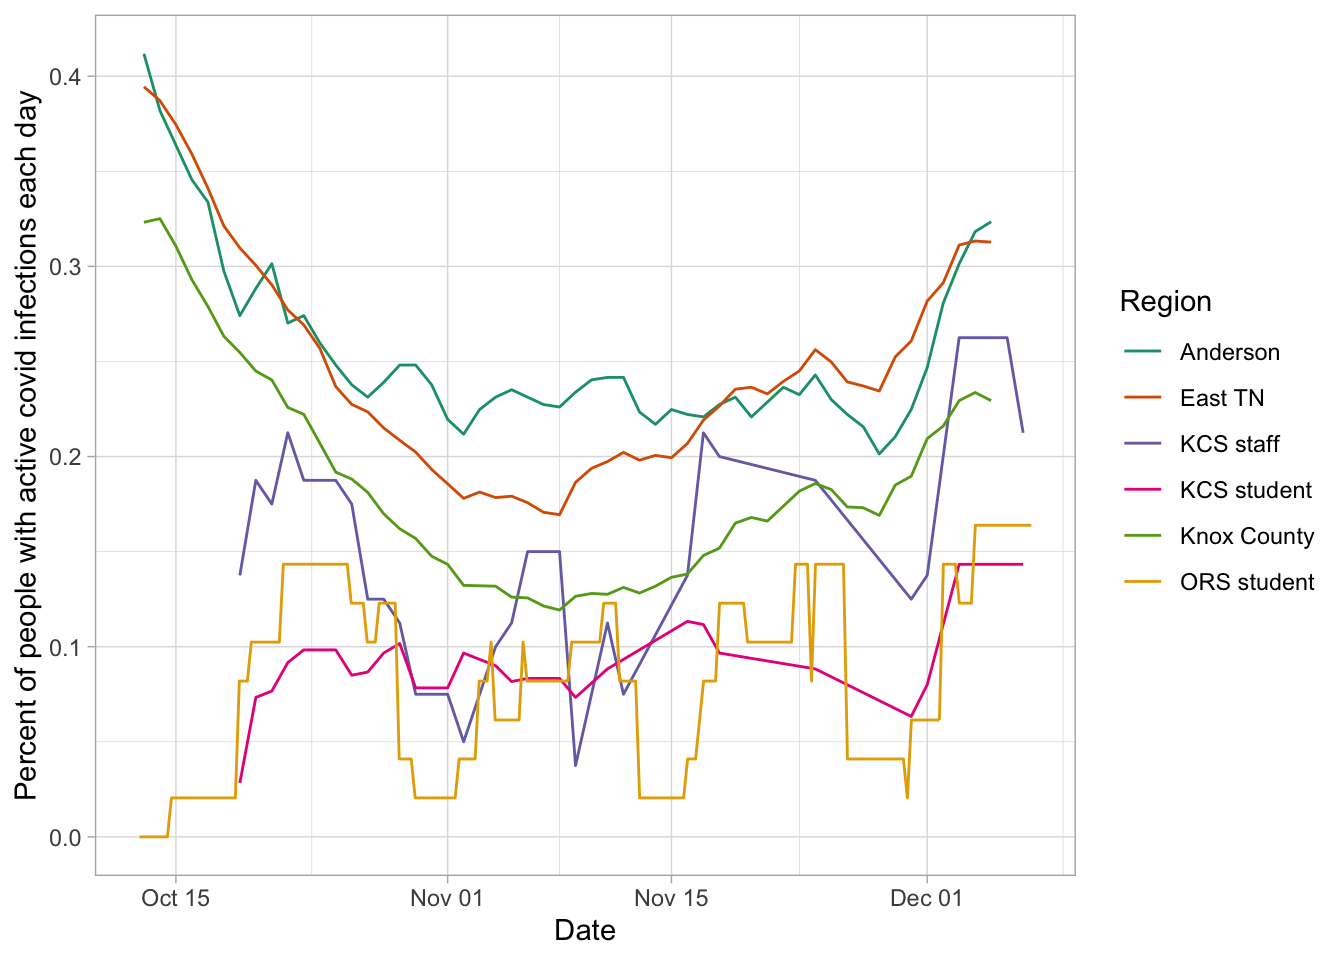
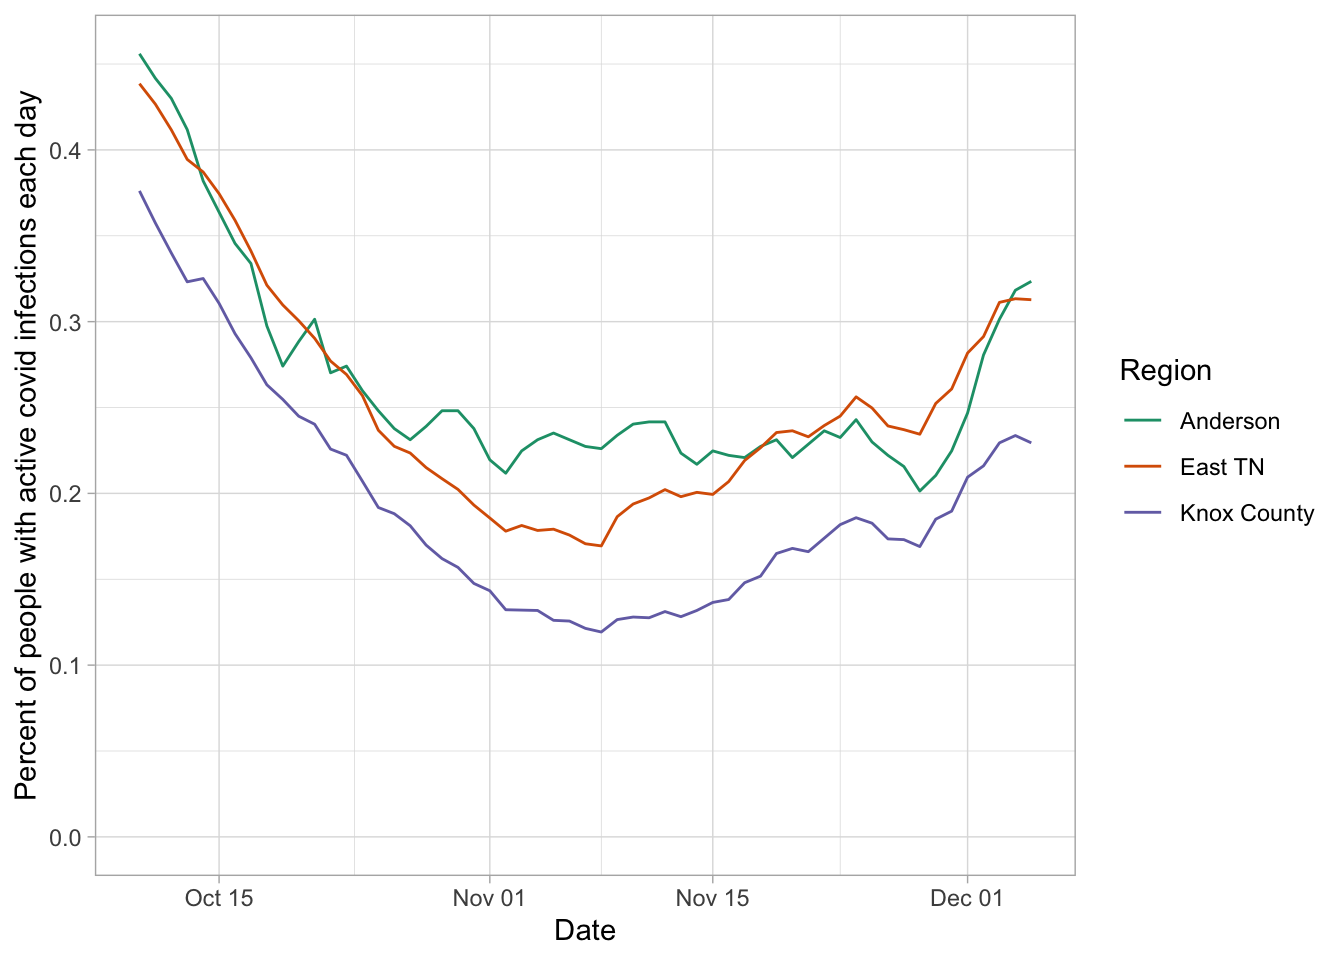
updated data

diff --git a/docs/lasteightweeks.html b/docs/lasteightweeks.html
@@ -350,9 +350,12 @@ $(document).ready(function () {
 </div>
 
 
+<p>`</p>
 <p>We can focus on just the last eight weeks, as some past peaks may obscure local dynamics otherwise.</p>
-<p>Total people in the area who have active covid infections right now <em>and</em> for whom this has been reported to the state. There is all East TN, all people in various counties, and people in Knox County Schools (KCS) and Oak Ridge Schools (ORS)</p>
+<p>Total people in the area who have active covid infections right now <em>and</em> for whom this has been reported to the state. There is all East TN as well as Knox and Anderson counties.</p>
 <p><img src="lasteightweeks_files/figure-html/percentageactive-1.png" title="Percentage of people in the region with active covid-19" alt="Percentage of people in the region with active covid-19" width="672" /></p>
+<p>We can also look at people in Knox County Schools (KCS) and Oak Ridge Schools (ORS)</p>
+<p><img src="lasteightweeks_files/figure-html/percentageactiveschools-1.png" title="Percentage of people in the region with active covid-19" alt="Percentage of people in the region with active covid-19" width="672" /></p>
 <p>We can also look at deaths per day, though this lags infections by weeks:</p>
 <p><img src="lasteightweeks_files/figure-html/numberdead-1.png" title="Covid deaths per day" alt="Covid deaths per day" width="672" /></p>
 <p>The <a href="https://covid.knoxcountytn.gov">Knox County Health Department</a> puts out information on hospital capacity in their region, which is Anderson, Bledsoe, Blount, Bradley, Campbell, Carter, Claiborne, Cocke, Cumberland, Grainger, Greene, Hamblen, Hamilton, Hancock, Hawkins, Jefferson, Johnson, Knox, Loudon, Marion, McMinn, Meigs, Monroe, Morgan, Polk, Rhea, Roane, Scott, Sevier, Sullivan, Unicoi, Union, Washington Counties; there are 19 hospitals in this region with potential ICU beds.</p>

diff --git a/docs/lastfourweeks.html b/docs/lastfourweeks.html
@@ -351,8 +351,10 @@ $(document).ready(function () {
 
 
 <p>We can focus on just the last four weeks, as some past peaks may obscure local dynamics otherwise.</p>
-<p>Total people in the area who have active covid infections right now <em>and</em> for whom this has been reported to the state. There is all East TN, all people in various counties, and people in Knox County Schools (KCS) and Oak Ridge Schools (ORS)</p>
+<p>Total people in the area who have active covid infections right now <em>and</em> for whom this has been reported to the state. There is all East TN as well as Knox and Anderson counties.</p>
 <p><img src="lastfourweeks_files/figure-html/percentageactive-1.png" title="Percentage of people in the region with active covid-19" alt="Percentage of people in the region with active covid-19" width="672" /></p>
+<p>We can also look at people in Knox County Schools (KCS) and Oak Ridge Schools (ORS)</p>
+<p><img src="lastfourweeks_files/figure-html/percentageactiveschools-1.png" title="Percentage of people in the region with active covid-19" alt="Percentage of people in the region with active covid-19" width="672" /></p>
 <p>We can also look at deaths per day, though this lags infections by weeks:</p>
 <p><img src="lastfourweeks_files/figure-html/numberdead-1.png" title="Covid deaths per day" alt="Covid deaths per day" width="672" /></p>
 <p>The <a href="https://covid.knoxcountytn.gov">Knox County Health Department</a> puts out information on hospital capacity in their region, which is Anderson, Bledsoe, Blount, Bradley, Campbell, Carter, Claiborne, Cocke, Cumberland, Grainger, Greene, Hamblen, Hamilton, Hancock, Hawkins, Jefferson, Johnson, Knox, Loudon, Marion, McMinn, Meigs, Monroe, Morgan, Polk, Rhea, Roane, Scott, Sevier, Sullivan, Unicoi, Union, Washington Counties; there are 19 hospitals in this region with potential ICU beds.</p>
